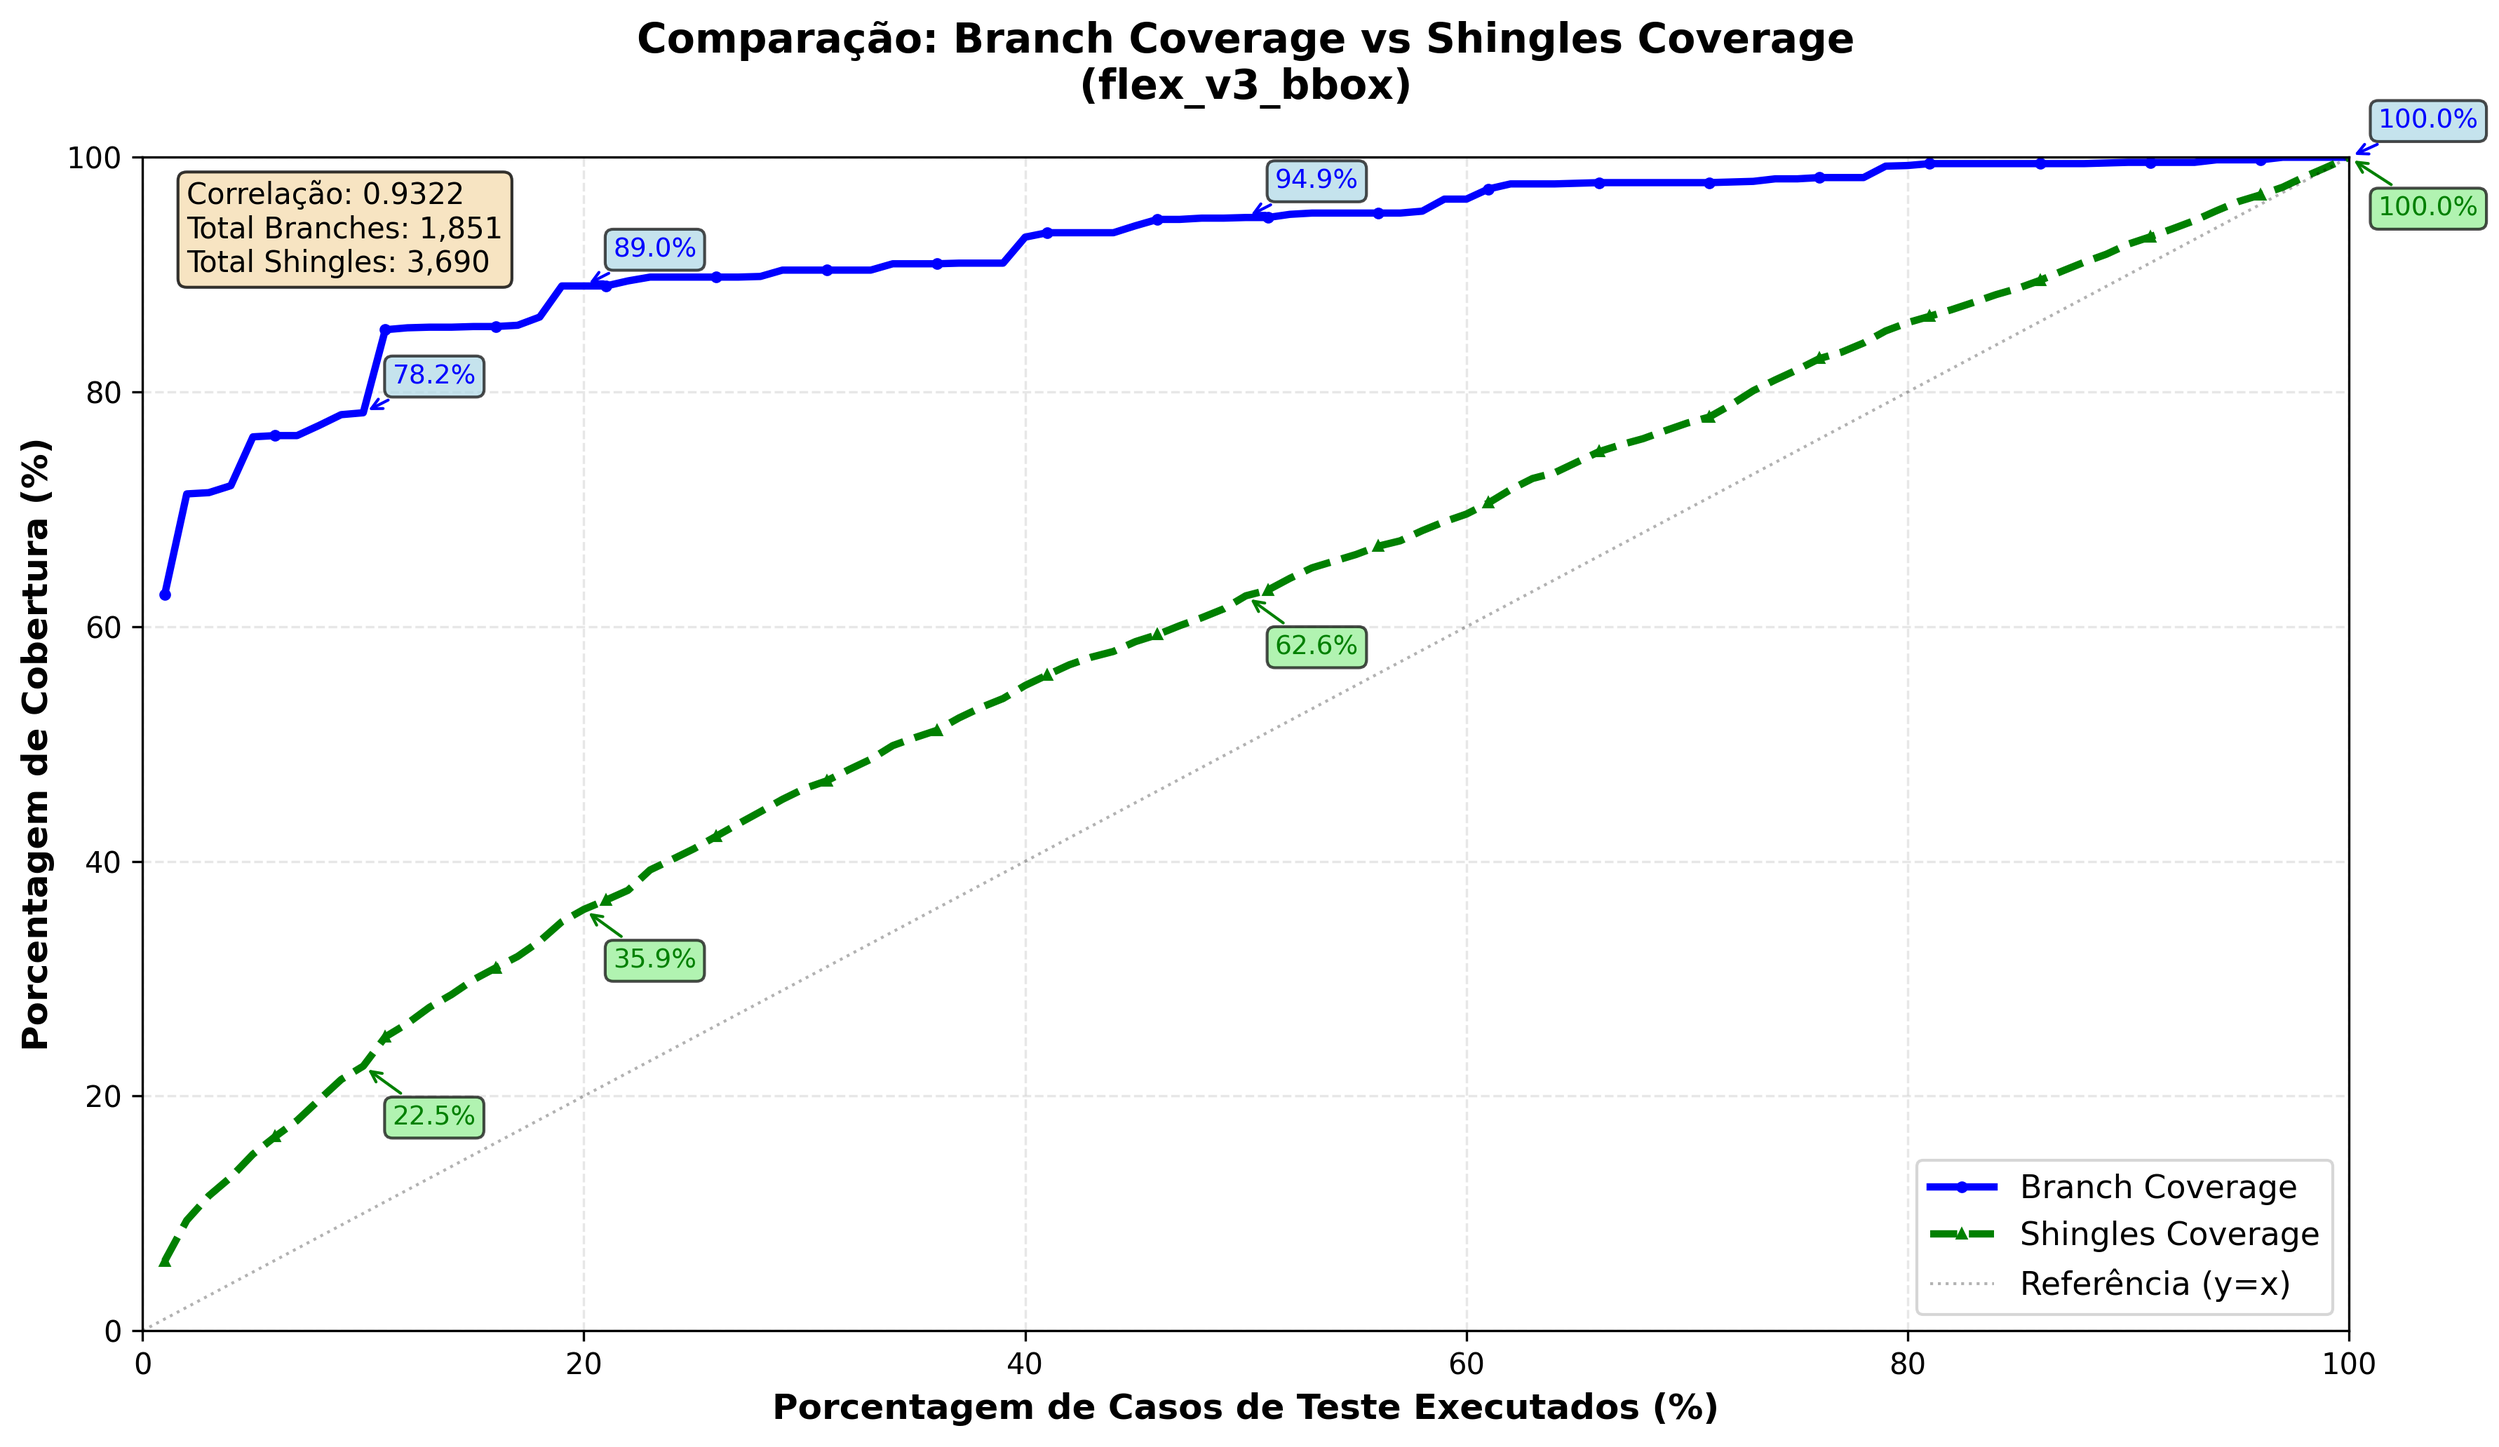
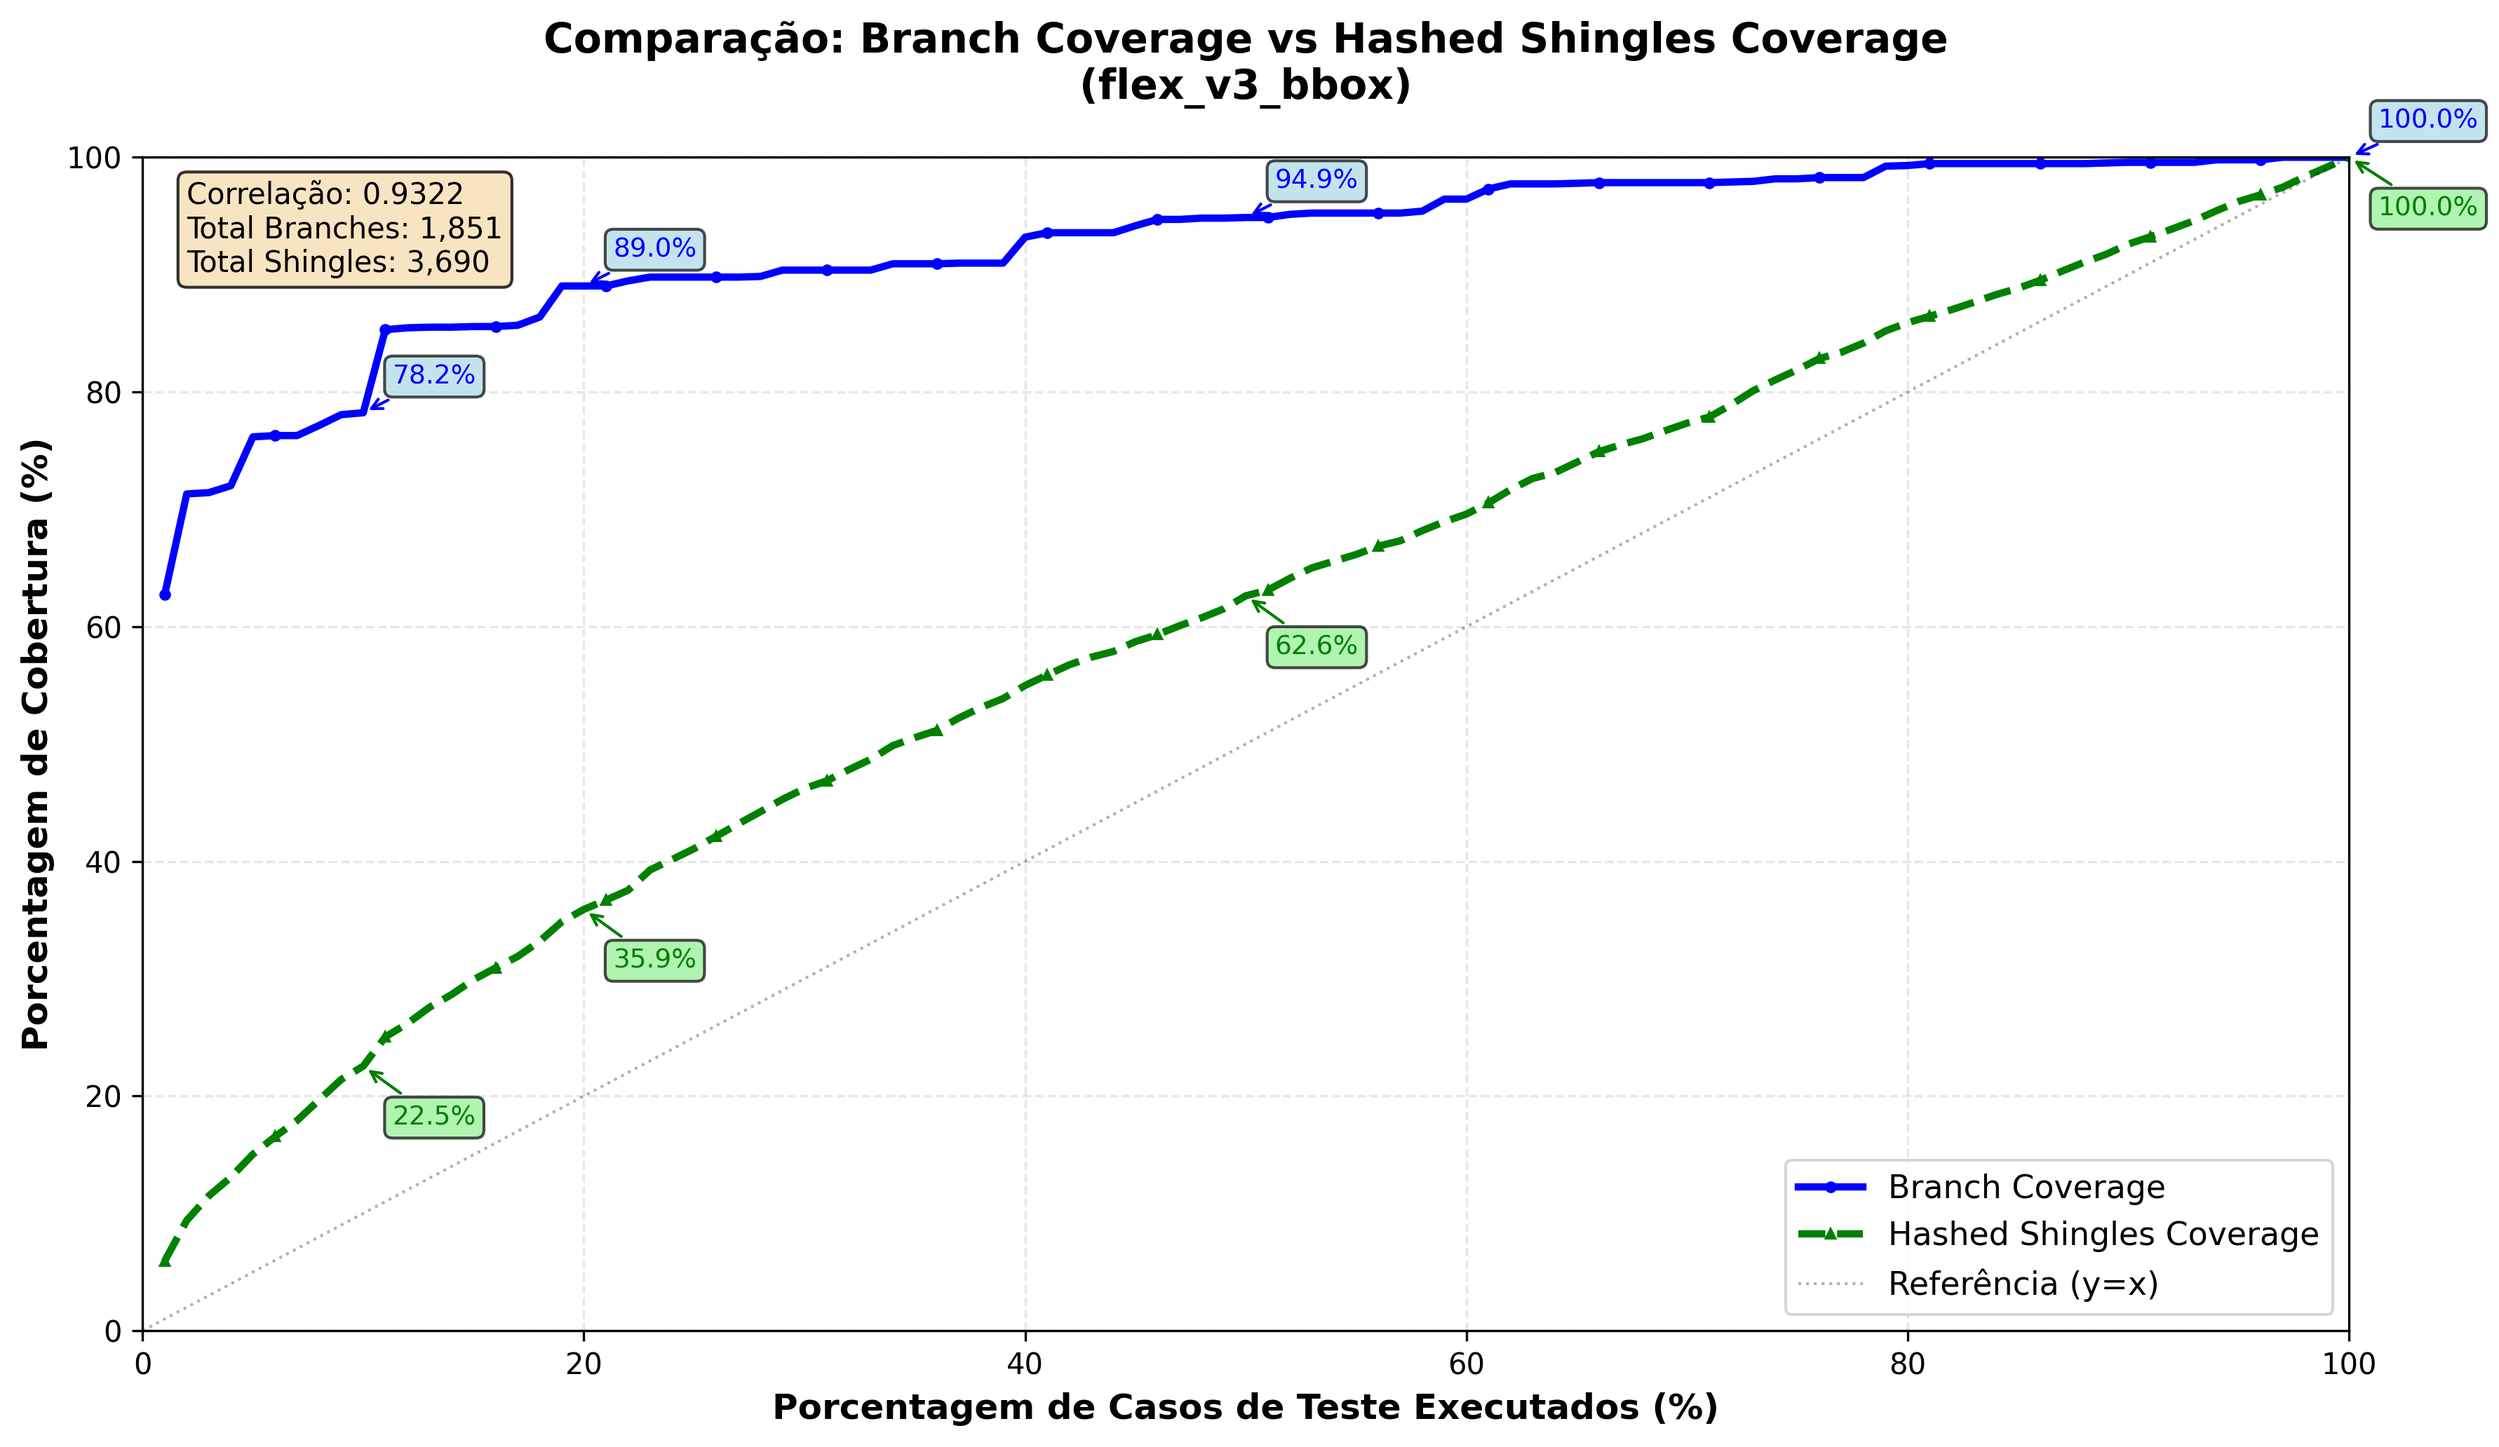
fix: update graph caption from shingles to hashed shingles

Changed region(s): [[0.2181, 0.0, 0.7788, 0.062], [0.7165, 0.8062, 0.9346, 0.8992]]

diff --git a/analyze_hashed_shingles_coverage.py b/analyze_hashed_shingles_coverage.py
@@ -97,7 +97,7 @@ def analyze_shingles_coverage(branch_file, shingles_file, output_prefix):
     plt.plot(percentages, branch_coverage_pct, 
              'b-', linewidth=2.5, label='Branch Coverage', marker='o', markersize=3, markevery=5)
     plt.plot(percentages, shingles_coverage_pct, 
-             'g--', linewidth=2.5, label='Shingles Coverage', marker='^', markersize=3, markevery=5)
+             'g--', linewidth=2.5, label='Hashed Shingles Coverage', marker='^', markersize=3, markevery=5)
     
     # Linha de referência diagonal
     plt.plot([0, 100], [0, 100], 'k:', linewidth=1, alpha=0.3, label='Referência (y=x)')
@@ -109,7 +109,7 @@ def analyze_shingles_coverage(branch_file, shingles_file, output_prefix):
     # Título dinâmico
     title_parts = output_prefix.split(os.sep)
     title_name = title_parts[-1] if title_parts else output_prefix
-    plt.title(f'Comparação: Branch Coverage vs Shingles Coverage\n({title_name})', 
+    plt.title(f'Comparação: Branch Coverage vs Hashed Shingles Coverage\n({title_name})', 
               fontsize=14, fontweight='bold', pad=20)
     
     plt.grid(True, alpha=0.3, linestyle='--')
